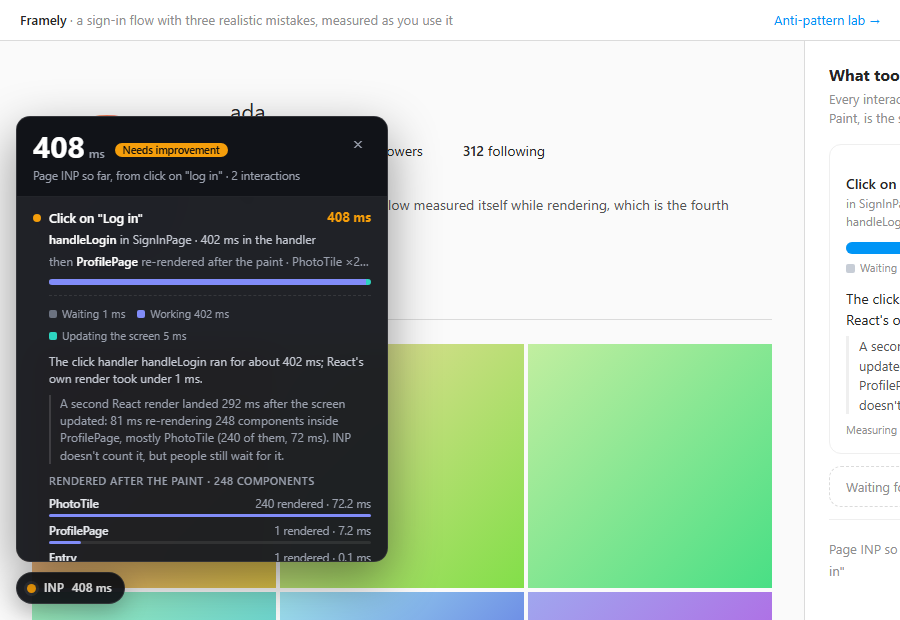
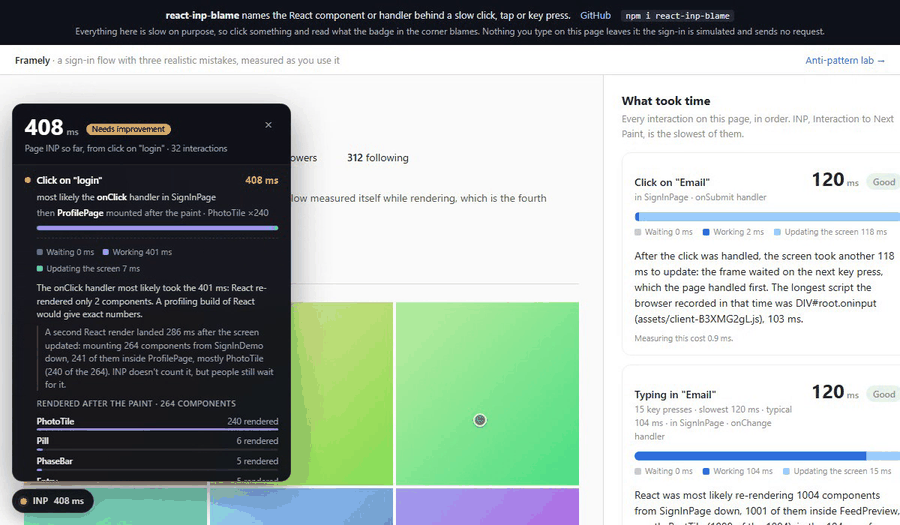
The README's GIF shows the demo's sign-in as it is now, an email and a password typed in before the click on Log in, and the still beside it is the recording's last frame

diff --git a/packages/core/README.md b/packages/core/README.md
@@ -3,7 +3,7 @@
 When a click, tap or key press in your React app is slow, this names the component or the handler
 behind it and says where the time went.
 
-![The demo's sign-in page: a click on Log in, the badge showing the page's INP, the panel opening, and one row expanding into the explanation](https://raw.githubusercontent.com/adityareddy-dev/react-inp-blame/main/docs/media/overlay.gif)
+![The demo's sign-in page: an email and a password typed in, a click on Log in, the badge showing the page's INP, the panel opening, and the login row expanding into the explanation](https://raw.githubusercontent.com/adityareddy-dev/react-inp-blame/main/docs/media/overlay.gif)
 
 **[Try the demo](https://adityareddy-dev.github.io/react-inp-blame/)**. Every scenario there is slow
 on purpose. Click something and read what the badge blames.

diff --git a/README.md b/README.md
@@ -3,7 +3,7 @@
 When a click, tap or key press in your React app is slow, this names the component or the handler behind
 it and says where the time went.
 
-![The demo's sign-in page: a click on Log in, the badge showing the page's INP, the panel opening, and one row expanding into the explanation](docs/media/overlay.gif)
+![The demo's sign-in page: an email and a password typed in, a click on Log in, the badge showing the page's INP, the panel opening, and the login row expanding into the explanation](docs/media/overlay.gif)
 
 **[Try the demo](https://adityareddy-dev.github.io/react-inp-blame/)**. Every scenario there is slow on
 purpose. Click something and read what the badge blames.
